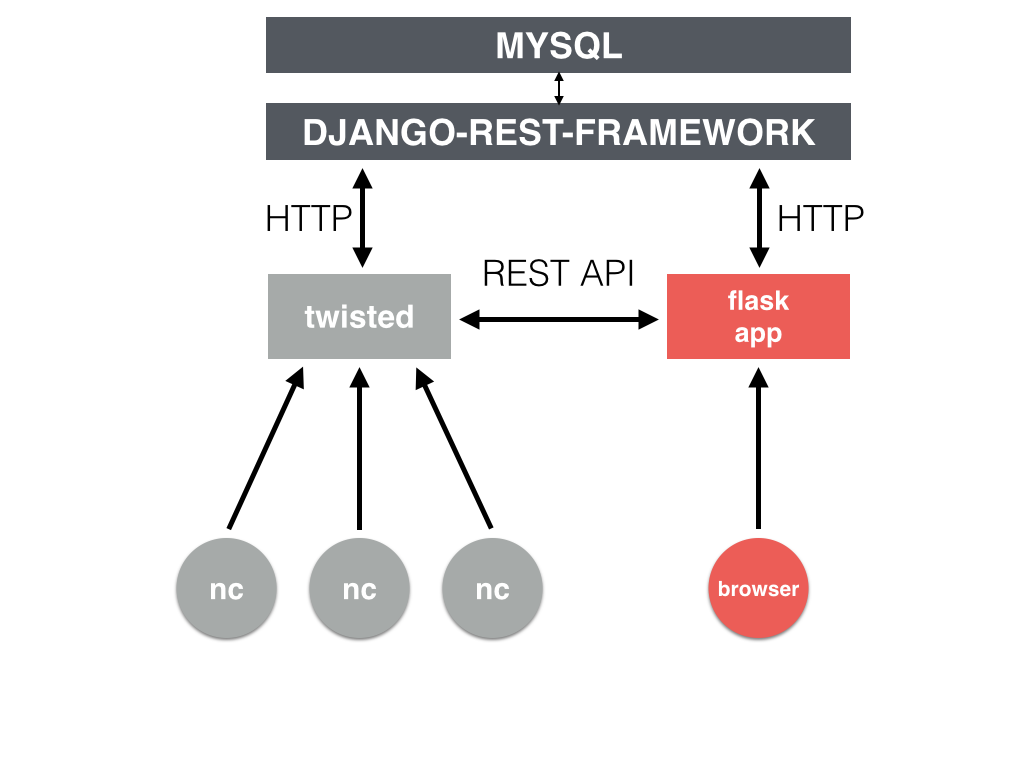
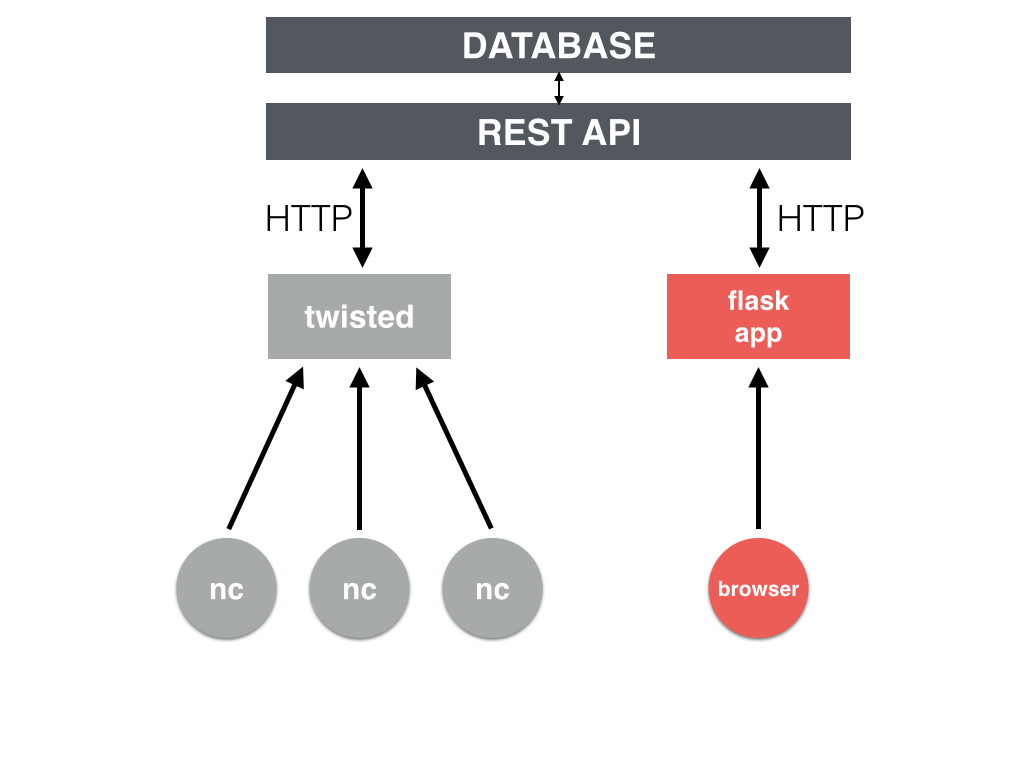
Add API transition slide.

diff --git a/boston_python_08_27_2015/boston_python_08_27_2015.md b/boston_python_08_27_2015/boston_python_08_27_2015.md
@@ -676,7 +676,10 @@ class NetCatChatProtocol(protocol.Protocol):
 
 ---
 
-# add transition about building API!!
+## Build the chat server API
+1. `GET /users/` --> returns user count
+2. `GET /banner/` --> returns the current banner
+3. `POST /banner/` --> sets the current banner
 
 ---
 
